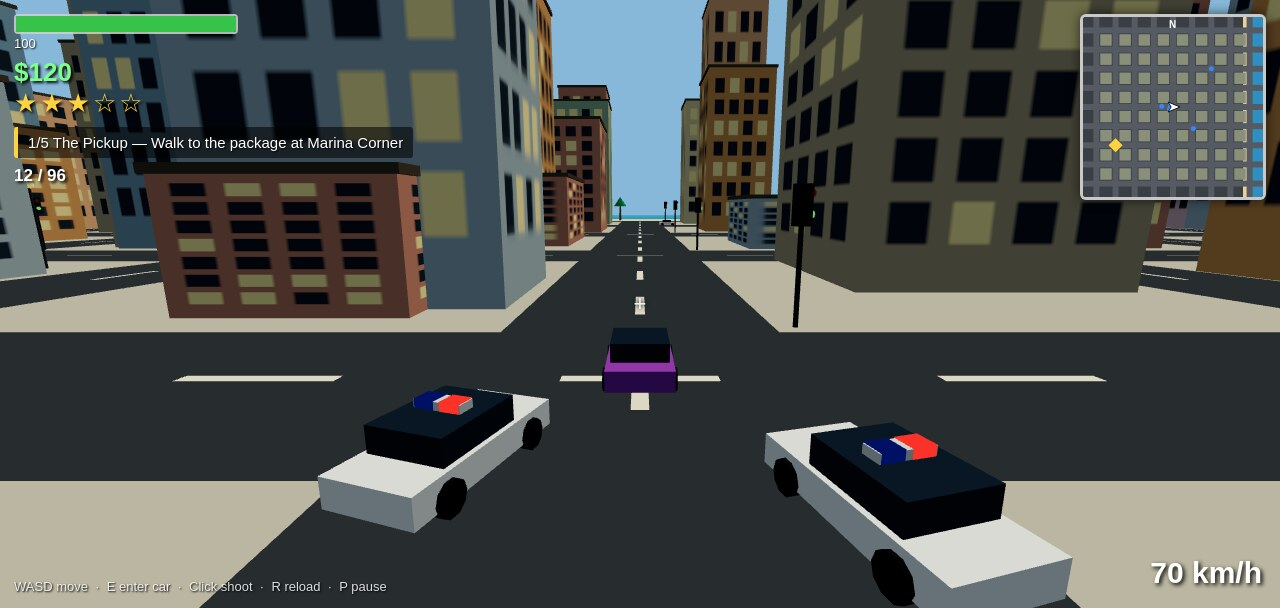
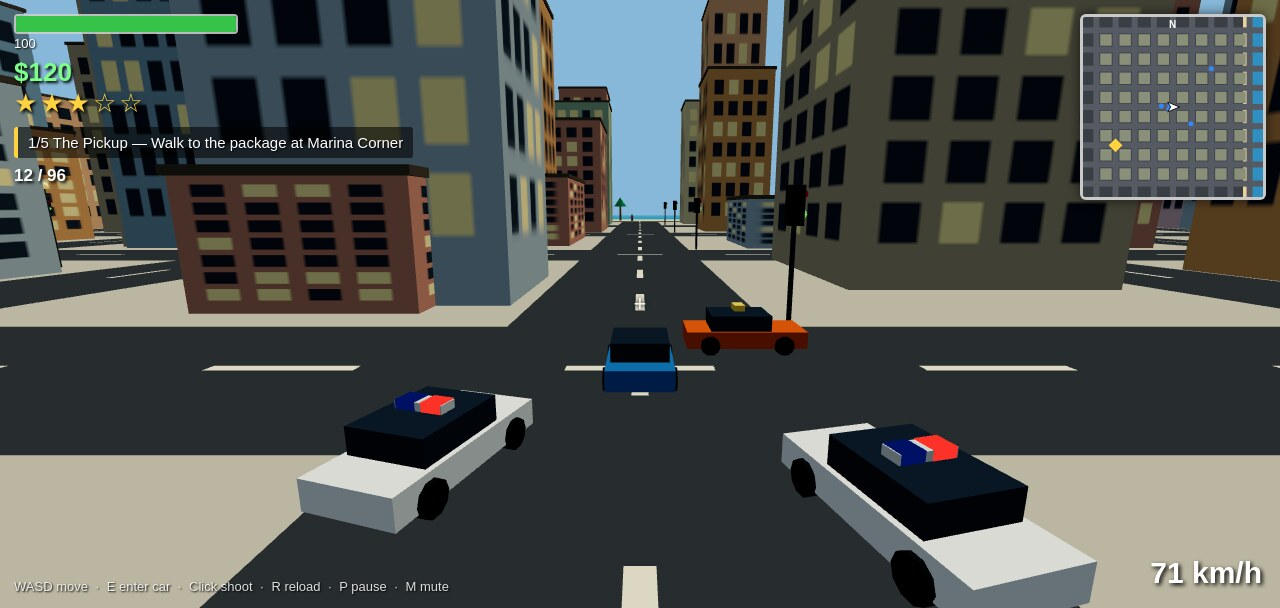
SOLMAR: polish pass — mute, landing thuds, seeded traffic, ped car avoidance, police spawn distance, particle reset, camera ground clamp

diff --git a/game/src/vehicles.js b/game/src/vehicles.js
@@ -109,8 +109,9 @@ export class VehicleFleet {
   }
 
   spawnInitial() {
-    // Parked cars along the roads, free to take.
-    const parkedKinds = ['sedan', 'sedan', 'taxi', 'van', 'sport', 'sedan'];
+    // Parked cars along the roads, free to take. Shuffled so the mix of
+    // sedans, taxis, vans and sports differs by seed, not by list order.
+    const parkedKinds = this.rng.shuffle(['sedan', 'sedan', 'taxi', 'van', 'sport', 'sedan', 'taxi', 'van', 'sport', 'sedan']);
     for (let i = 0; i < CFG.parkedCount; i++) {
       const road = this.rng.pick(CFG.roadCoords);
       const along = this.rng.range(-150, 150);
@@ -183,7 +184,7 @@ export class VehicleFleet {
     if (car.stopTimer > 0) {
       car.stopTimer -= dt;
       target = 0;
-    } else if (this.rng && Math.random() < dt * 0.004) {
+    } else if (this.rng.chance(dt * 0.004)) {
       car.stopTimer = this.rng.range(2, 5);
     }
     car.speed += (target - car.speed) * Math.min(1, dt * 1.5);
@@ -194,11 +195,12 @@ export class VehicleFleet {
       car.x = nx;
       car.z = nz;
       // Turn at an intersection sometimes, to keep traffic spread out.
-      if (distCross < 2 && Math.random() < 0.25) {
+      // Seeded, so the same seed replays the same traffic.
+      if (distCross < 2 && this.rng.chance(0.25)) {
         const newAxis = car.axis === 'x' ? 'z' : 'x';
         const newRoad = this.world.nearestRoadCoord(car.axis === 'x' ? car.z : car.x);
         car.axis = newAxis;
-        car.dir = Math.random() < 0.5 ? 1 : -1;
+        car.dir = this.rng.chance(0.5) ? 1 : -1;
         car.lane = car.dir * 2.6;
         if (newAxis === 'x') {
           car.z = newRoad + car.lane;

diff --git a/main.ts b/main.ts
@@ -12,7 +12,7 @@
 // container, MAKEFUN_OUTPUT_DIR stands in for /output:
 //   mkdir -p out && MAKEFUN_OUTPUT_DIR=out node main.ts
 
-import { cpSync, existsSync, mkdirSync, writeFileSync } from 'node:fs';
+import { cpSync, existsSync, mkdirSync, statSync, writeFileSync } from 'node:fs';
 import { join } from 'node:path';
 import { fileURLToPath } from 'node:url';
 import { buildDossier } from './vendor/makefun-game.ts';
@@ -29,8 +29,9 @@ if (existsSync(join(here, 'screenshots'))) cpSync(join(here, 'screenshots'), joi
 // scorer would refuse (more than 4 screenshots or one over 256 KiB; more than 993 files in game/ or 48 MiB of game
 // files, in all, or a path under game/ over 1000 bytes: game/ counts beside /output's own 1000-entry cap, its
 // screenshots/ and dossier.json).
+const dossierPath = join(out, 'dossier.json');
 writeFileSync(
-  join(out, 'dossier.json'),
+  dossierPath,
   buildDossier(out, {
     text_max_bytes: 163840,
     screenshots: { max: 4, max_bytes: 262144 },
@@ -39,3 +40,8 @@ writeFileSync(
     game_path_max_bytes: 1000,
   }),
 );
+// Refuse to exit quietly on a half-written handover: the dossier must exist
+// and hold real bytes, or the run has failed even though nothing threw.
+if (!existsSync(dossierPath) || statSync(dossierPath).size < 1000) {
+  throw new Error('main.ts: dossier.json was not written');
+}

diff --git a/game/src/main.js b/game/src/main.js
@@ -126,6 +126,7 @@ function startGame(fromSave) {
   const save = fromSave ? loadSave() : null;
   combat.clearEnemies();
   combat.resetAmmo();
+  particles.reset();
   police.clearWanted(G.time);
   missions.reset();
   if (save) {
@@ -178,6 +179,7 @@ function gameOver() {
 function retryAfterDeath() {
   audio.click();
   combat.clearEnemies();
+  particles.reset();
   police.clearWanted(G.time);
   player.reset(PLACES.hideout);
   player.money = Math.max(0, player.money - 100);
@@ -242,6 +244,11 @@ input.onInteractKey = () => {
 
 input.onReloadKey = () => {
   if (G.screen === 'playing') combat.startReload();
+};
+
+input.onMuteKey = () => {
+  const muted = audio.toggleMute();
+  hud.toast(muted ? 'Sound off (M to turn it back on).' : 'Sound on.');
 };
 
 // ---- police / crime wiring ----
@@ -339,6 +346,10 @@ function frame() {
       audio.engine(Math.abs(car.speed) / CFG.carTopSpeed);
     } else {
       player.update(dt, input, G.time);
+      if (player.justLanded) {
+        player.justLanded = false;
+        audio.thud();
+      }
       audio.engine(0);
       // Footsteps.
       if (player.speed > 1 && G.time - lastStepAt > 0.45) {

diff --git a/game/src/input.js b/game/src/input.js
@@ -16,6 +16,7 @@ export class Input {
     this.onPauseKey = null; // set by main.js
     this.onInteractKey = null;
     this.onReloadKey = null;
+    this.onMuteKey = null;
     this.attach();
   }
 
@@ -29,6 +30,7 @@ export class Input {
       if (e.code === 'Escape' && this.onPauseKey) this.onPauseKey();
       if (e.code === 'KeyE' && this.onInteractKey) this.onInteractKey();
       if (e.code === 'KeyR' && this.onReloadKey) this.onReloadKey();
+      if (e.code === 'KeyM' && this.onMuteKey) this.onMuteKey();
     });
     window.addEventListener('keyup', (e) => this.keys.delete(e.code));
     window.addEventListener('blur', () => this.keys.clear());
@@ -48,6 +50,12 @@ export class Input {
     });
     document.addEventListener('pointerlockchange', () => {
       this.pointerLocked = document.pointerLockElement === this.canvas;
+      // Losing the lock mid-game used to fling the camera on the next lock:
+      // drop any look accumulated while unlocked.
+      if (!this.pointerLocked) {
+        this.lookDX = 0;
+        this.lookDY = 0;
+      }
     });
     this.canvas.addEventListener('click', () => this.requestLock());
   }

diff --git a/game/src/police.js b/game/src/police.js
@@ -63,10 +63,15 @@ export class PoliceForce {
       let z = player.z + Math.cos(angle) * dist;
       x = THREE.MathUtils.clamp(x, -170, 170);
       z = THREE.MathUtils.clamp(z, -170, 170);
-      // Never spawn inside a building.
+      // Never spawn inside a building, and never right on top of the player:
+      // clamping at the map edge can pull a spawn in close, so push it back out.
       if (this.world.isInsideBuilding(x, z, 2)) {
         x = this.world.nearestRoadCoord(x);
         z = this.world.nearestRoadCoord(z);
+      }
+      if (Math.hypot(x - player.x, z - player.z) < 40) {
+        x = THREE.MathUtils.clamp(player.x + Math.sin(angle) * 55, -170, 170);
+        z = THREE.MathUtils.clamp(player.z + Math.cos(angle) * 55, -170, 170);
       }
       const car = this.fleet.spawnPoliceChaser(x, z);
       this.chasers.push(car);

diff --git a/game/src/particles.js b/game/src/particles.js
@@ -124,6 +124,23 @@ export class ParticleSystem {
     this.flashLife = 0.07;
   }
 
+  // Clear every particle, tracer and flash: a clean slate for a new game
+  // or a retry, so no stale shot hangs in the air.
+  reset() {
+    for (let i = 0; i < MAX_PARTICLES; i++) {
+      this.life[i] = 0;
+      this.positions[i * 3 + 1] = -100;
+    }
+    this.geo.attributes.position.needsUpdate = true;
+    for (const t of this.tracers) {
+      t.line.visible = false;
+      t.hold = false;
+    }
+    this.flashLife = 0;
+    this.flashLight.intensity = 0;
+    this.flashMesh.visible = false;
+  }
+
   update(dt) {
     for (let i = 0; i < MAX_PARTICLES; i++) {
       if (this.life[i] <= 0) continue;

diff --git a/game/src/player.js b/game/src/player.js
@@ -64,6 +64,7 @@ export class Player {
     this.onGround = true;
     this.walkPhase = 0;
     this.lastHurtAt = -99;
+    this.justLanded = false; // set on a hard landing; main.js plays the thud
     this.dead = false;
     this.mesh = makePersonMesh(0x2e6fb0);
     this.mesh.position.set(0, 0, 0);
@@ -148,6 +149,8 @@ export class Player {
       this.vy -= CFG.gravity * dt;
       this.y += this.vy * dt;
       if (this.y <= 0) {
+        // A hard landing (a long fall) thuds; main.js hears justLanded.
+        if (this.vy < -9) this.justLanded = true;
         this.y = 0;
         this.vy = 0;
         this.onGround = true;

diff --git a/game/src/pedestrians.js b/game/src/pedestrians.js
@@ -115,6 +115,15 @@ export class PedCrowd {
       }
       let nx = ped.x + mx * speed * dt;
       let nz = ped.z + mz * speed * dt;
+      // Don't walk through a car: sidestep around it instead.
+      for (const car of cars) {
+        if (Math.hypot(nx - car.x, nz - car.z) < 2.4) {
+          ped.angle += Math.PI / 2;
+          nx = ped.x;
+          nz = ped.z;
+          break;
+        }
+      }
       const pos = { x: nx, z: nz };
       if (this.world.isInsideBuilding(nx, nz, 0.6)) {
         ped.angle += Math.PI / 2;

diff --git a/game/index.html b/game/index.html
@@ -57,7 +57,7 @@
   <div id="speed-box" class="hidden"><span id="speed">0 km/h</span></div>
   <div id="crosshair">+</div>
   <div id="toast" class="hidden"></div>
-  <div id="hint">WASD move &nbsp;·&nbsp; E enter car &nbsp;·&nbsp; Click shoot &nbsp;·&nbsp; R reload &nbsp;·&nbsp; P pause</div>
+  <div id="hint">WASD move &nbsp;·&nbsp; E enter car &nbsp;·&nbsp; Click shoot &nbsp;·&nbsp; R reload &nbsp;·&nbsp; P pause &nbsp;·&nbsp; M mute</div>
 </div>
 
 <div id="title-screen" class="screen">

diff --git a/game/src/random.js b/game/src/random.js
@@ -48,6 +48,14 @@ export class Rng {
   chance(p) {
     return this.next() < p;
   }
+  // Shuffle an array in place (Fisher-Yates) and return it.
+  shuffle(list) {
+    for (let i = list.length - 1; i > 0; i--) {
+      const j = Math.floor(this.next() * (i + 1));
+      [list[i], list[j]] = [list[j], list[i]];
+    }
+    return list;
+  }
   // A pastel-ish colour as a hex number, for buildings and cars.
   colour(palette) {
     return this.pick(palette);

diff --git a/game/src/combat.js b/game/src/combat.js
@@ -113,6 +113,8 @@ export class Combat {
     if (hitEnemy) {
       hitEnemy.health -= CFG.shotDamage;
       this.particles.blood({ x: hitEnemy.x, y: 1.3, z: hitEnemy.z });
+      // Hit marker tick, so the player hears the shot land.
+      this.audio.tone(1250, 0.05, 0.14, 'square');
       if (hitEnemy.health <= 0) this.killEnemy(hitEnemy);
     } else if (hitT < CFG.shotRange) {
       this.particles.sparks(end);

diff --git a/game/src/audio.js b/game/src/audio.js
@@ -81,6 +81,13 @@ export class SoundBank {
     this.tone(880, 0.06, 0.15, 'square');
   }
 
+  // M toggles all sound. Returns the new muted state for the HUD hint.
+  toggleMute() {
+    this.muted = !this.muted;
+    if (this.master) this.master.gain.value = this.muted ? 0 : 0.35;
+    return this.muted;
+  }
+
   shot() {
     this.noiseBurst(0.14, 1800, 0.7);
     this.tone(160, 0.1, 0.4, 'sine', 55);
